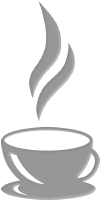
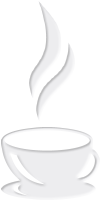
скининг

diff --git a/Skins/IEView/styles/Diplomat_Light.css b/Skins/IEView/styles/Diplomat_Light.css
@@ -21,7 +21,7 @@ html {
 	scrollbar-3dlight-color: #E7E8EA;
 	scrollbar-darkshadow-color: #87888B;
 	scrollbar-track-color: #EDEDEF;
-	background: url(Light.png) fixed no-repeat bottom right;
+	background: url(Diplomat_Light/picture.png) fixed no-repeat bottom right;
 	background-color: #EDEDEF;
 	overflow: auto;
 	padding: 0px 0px 0px 0px;
